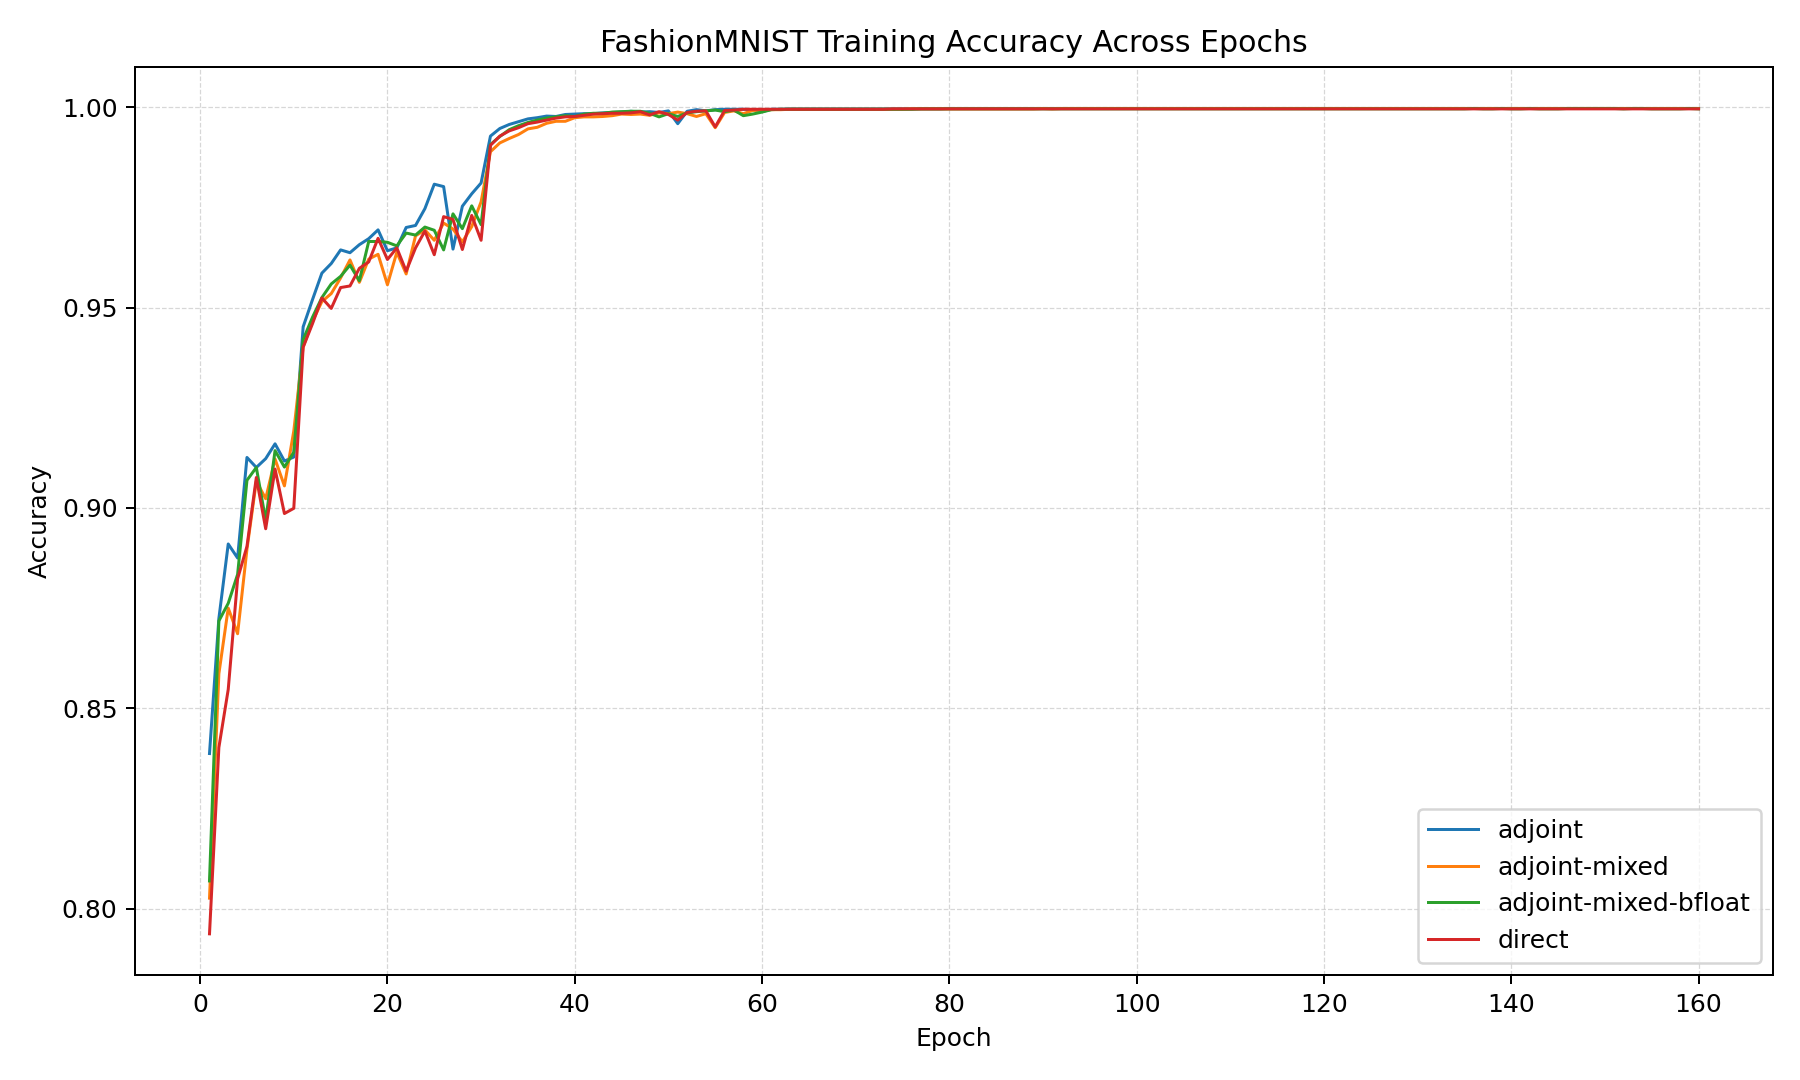
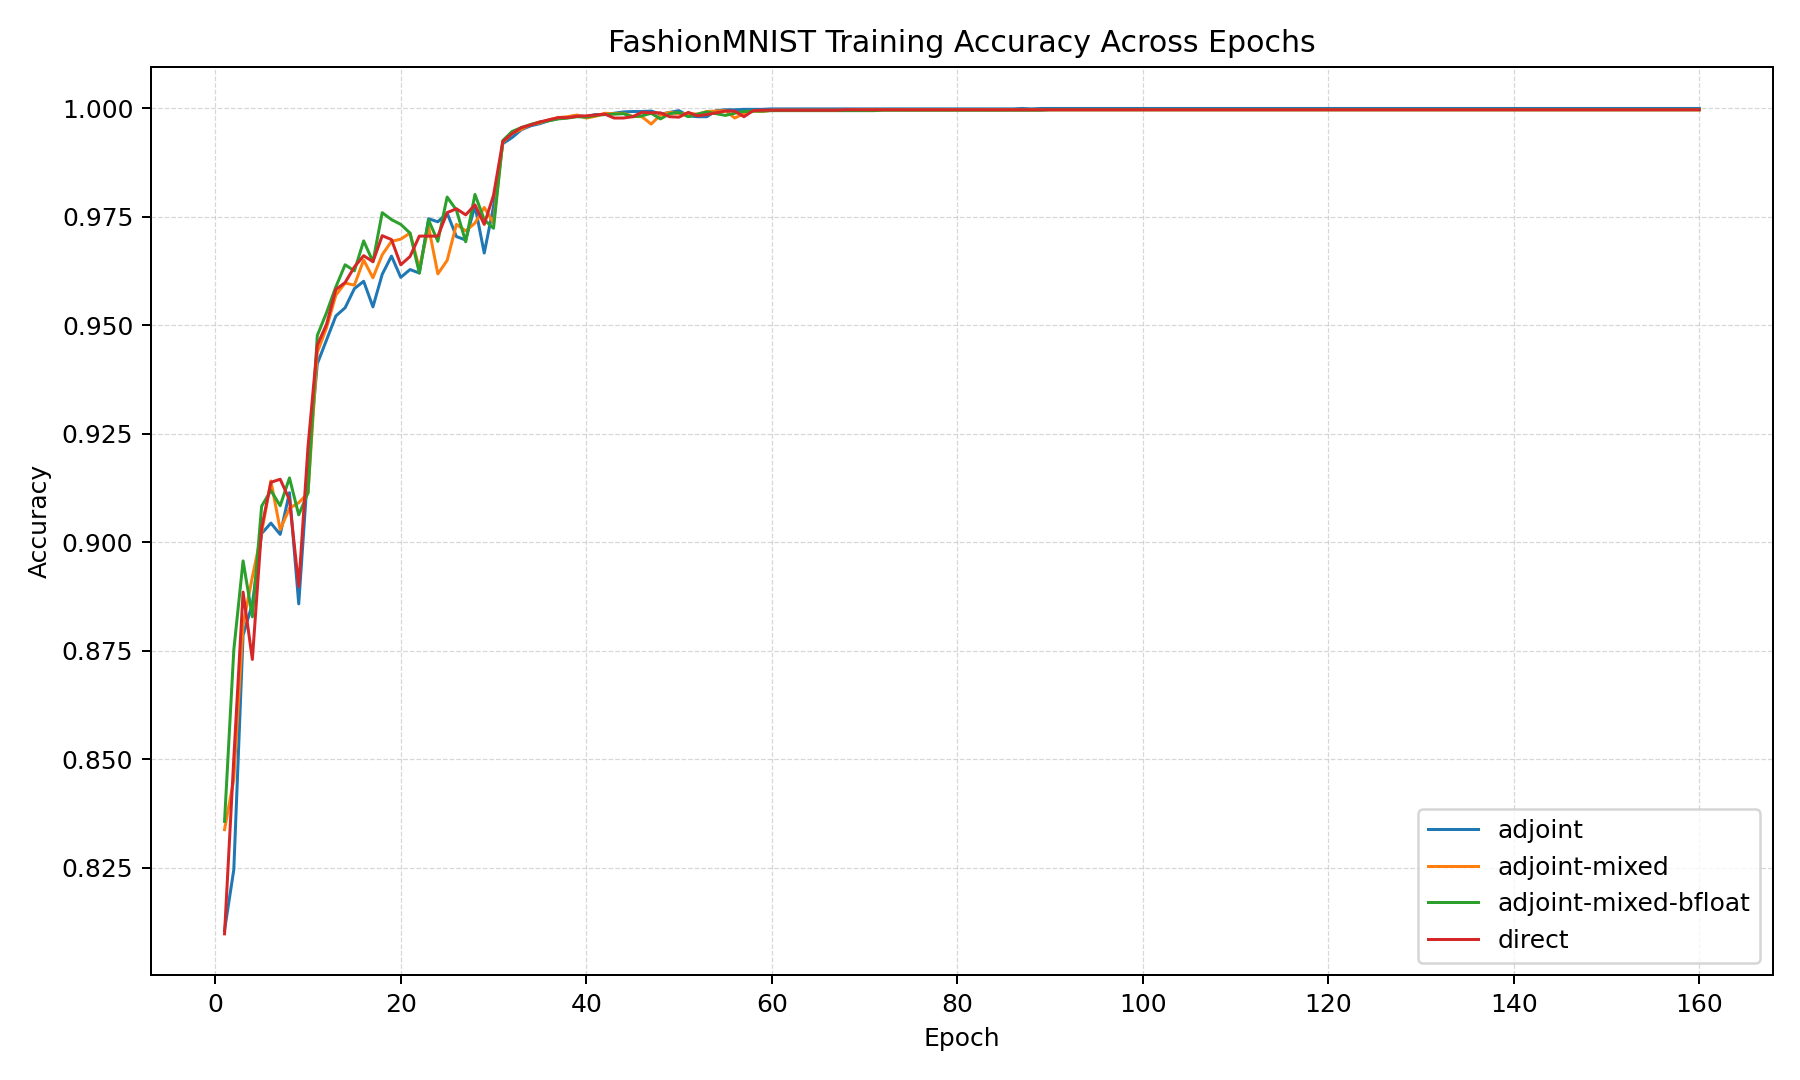
Updated training summaries for Fashion MNIST

diff --git a/examples/FashionMNIST/Evaluate Full Training Logs/fashion_mnist_final_metrics.md b/examples/FashionMNIST/Evaluate Full Training Logs/fashion_mnist_final_metrics.md
@@ -3,12 +3,12 @@
 ## Full Training Metrics 
 
 ```text
-mode                 | final_val_err  | best_val_err | train_mem_mb | train_time_s | infer_time_s | infer_mem_mb |
----------------------+----------------+--------------+--------------+--------------+--------------+--------------+
-adjoint              | 0.0785         | 0.0736       | 171.27       | 1658.22      | 0.6300       | 1831.83      |
-adjoint-mixed        | 0.0838         | 0.0764       | 164.32       | 3095.77      | 0.7000       | 1698.25      |
-adjoint-mixed-bfloat | 0.0806         | 0.076        | 163.20       | 1856.93      | 0.6700       | 1698.25      |
-direct               | 0.083          | 0.0764       | 221.06       | 1231.05      | 0.6500       | 352.59       |
+mode                 | final_train_acc | final_val_err | best_val_err | train_mem_mb | train_time_s | infer_time_s | infer_mem_mb
+---------------------+-----------------+---------------+--------------+--------------+--------------+--------------+-------------
+adjoint              | 0.9999          | 0.0813        | 0.0773       | 171.27       | 1559.38      | 0.6400       | 1831.83     
+adjoint-mixed        | 0.9996          | 0.0773        | 0.0748       | 159.95       | 1866.96      | 0.6600       | 227.92      
+adjoint-mixed-bfloat | 0.9996          | 0.0836        | 0.0766       | 159.95       | 1877.39      | 0.6500       | 227.92      
+direct               | 0.9996          | 0.0778        | 0.071        | 221.06       | 1204.35      | 0.6400       | 352.59      
 ```
 
 Log files:
@@ -64,31 +64,33 @@ and report peak GPU memory for each epoch and time per epoch for training.
 |---------------|--------|--------|--------|--------|---------|---------|---------|----------|
 |      dir      | 221.06 | 312.35 | 494.94 | 860.12 | 1590.48 | 3051.29 | 5973.20 | 11818.20 |
 |      adj      | 171.27 | 197.37 | 264.87 | 399.87 | 669.87  | 1209.87 | 2289.87 | 4449.87  |
-|   adj_fl16    | 164.32 | 185.98 | 230.98 | 320.98 | 500.98  | 860.98  | 1580.98 | 3020.99  |
-|   adj_bfl16   | 163.20 | 185.70 | 230.70 | 320.70 | 500.70  | 860.70  | 1580.70 | 3020.71  |
+|   adj_fl16    | 159.95 | 171.20 | 193.70 | 238.70 | 328.70  | 508.70  | 868.71  | 1588.71  |
+|   adj_bfl16   | 159.95 | 171.20 | 193.70 | 238.70 | 328.70  | 508.70  | 868.71  | 1588.71  |
 |---------------|--------|--------|--------|--------|---------|---------|---------|----------|
-| adj/dir       | 0.775  | 0.632  | 0.535  | 0.465  | 0.421   | 0.397   | 0.383   | 0.377    |
-| dir/adj_fl16  | 1.345  | 1.680  | 2.143  | 2.680  | 3.175   | 3.544   | 3.778   | 3.912    |
-| dir/adj_bfl16 | 1.355  | 1.682  | 2.145  | 2.682  | 3.177   | 3.545   | 3.779   | 3.912    |
-| adj/adj_fl16  | 1.042  | 1.061  | 1.147  | 1.246  | 1.337   | 1.405   | 1.448   | 1.473    |
-| adj/adj_bfl16 | 1.049  | 1.063  | 1.148  | 1.247  | 1.338   | 1.406   | 1.449   | 1.473    |
+| dir/adj       | 1.291  | 1.583  | 1.869  | 2.151  | 2.374   | 2.522   | 2.609   | 2.656    |
+| dir/adj_fl16  | 1.382  | 1.824  | 2.555  | 3.603  | 4.839   | 5.998   | 6.876   | 7.439    |
+| dir/adj_bfl16 | 1.382  | 1.824  | 2.555  | 3.603  | 4.839   | 5.998   | 6.876   | 7.439    |
+| adj/adj_fl16  | 1.071  | 1.153  | 1.367  | 1.675  | 2.038   | 2.378   | 2.636   | 2.801    |
+| adj/adj_bfl16 | 1.071  | 1.153  | 1.367  | 1.675  | 2.038   | 2.378   | 2.636   | 2.801    |
 |---------------|--------|--------|--------|--------|---------|---------|---------|----------|
 ```
+
+
 
 # Time Results (s)
 ```text
 |---------------|--------|--------|--------|--------|---------|---------|---------|----------|
 |   method \ T  |   1    |   2    |   4    |   8    |   16    |   32    |   64    |   128    |
 |---------------|--------|--------|--------|--------|---------|---------|---------|----------|
-|      dir      | 4.76   | 8.97   | 21.29  | 60.54  | 197.14  | 771.63  | 3050.75 | 13069.61 |
-|      adj      | 7.27   | 12.79  | 23.79  | 45.40  | 88.51   | 182.66  | 432.50  | 1271.67  | 
-|   adj_fl16    | 13.65  | 24.49  | 57.29  | 110.40 | 244.88  | 479.82  | 1103.12 | 2790.09  |
-|   adj_bfl16   | 8.24   | 14.84  | 27.41  | 52.84  | 102.76  | 215.49  | 515.83  | 1524.71  |
+|      dir      | 4.81   | 8.87   | 19.97  | 55.16  | 167.18  | 753.91  | 3076.32 | 12672.00 |
+|      adj      | 7.39   | 11.36  | 21.99  | 40.73  | 79.69   | 173.52  | 448.15  | 1328.24  |
+|   adj_fl16    | 9.27   | 15.38  | 30.59  | 66.02  | 132.00  | 410.39  | 1242.39 | 4159.84  |
+|   adj_bfl16   | 8.31   | 14.44  | 28.02  | 60.79  | 145.34  | 391.92  | 1196.98 | 6663.28  |
 |---------------|--------|--------|--------|--------|---------|---------|---------|----------|
-| dir/adj       | 0.655  | 0.701  | 0.895  | 1.334  | 2.227   | 4.224   | 7.054   | 10.278   |
-| dir/adj_fl16  | 0.349  | 0.366  | 0.372  | 0.548  | 0.805   | 1.608   | 2.766   | 4.684    |
-| dir/adj_bfl16 | 0.577  | 0.604  | 0.777  | 1.146  | 1.919   | 3.581   | 5.914   | 8.572    |
-| adj/adj_fl16  | 0.532  | 0.522  | 0.415  | 0.411  | 0.361   | 0.381   | 0.392   | 0.456    |
-| adj/adj_bfl16 | 0.882  | 0.862  | 0.868  | 0.859  | 0.861   | 0.848   | 0.838   | 0.834    |
+| dir/adj       | 0.651  | 0.781  | 0.908  | 1.354  | 2.098   | 4.345   | 6.864   | 9.540    |
+| dir/adj_fl16  | 0.519  | 0.576  | 0.653  | 0.835  | 1.266   | 1.837   | 2.476   | 3.046    |
+| dir/adj_bfl16 | 0.579  | 0.614  | 0.713  | 0.907  | 1.150   | 1.924   | 2.570   | 1.902    |
+| adj/adj_fl16  | 0.797  | 0.739  | 0.719  | 0.617  | 0.604   | 0.423   | 0.361   | 0.319    |
+| adj/adj_bfl16 | 0.889  | 0.787  | 0.785  | 0.670  | 0.548   | 0.443   | 0.374   | 0.199    |
 |---------------|--------|--------|--------|--------|---------|---------|---------|----------|
 ```
